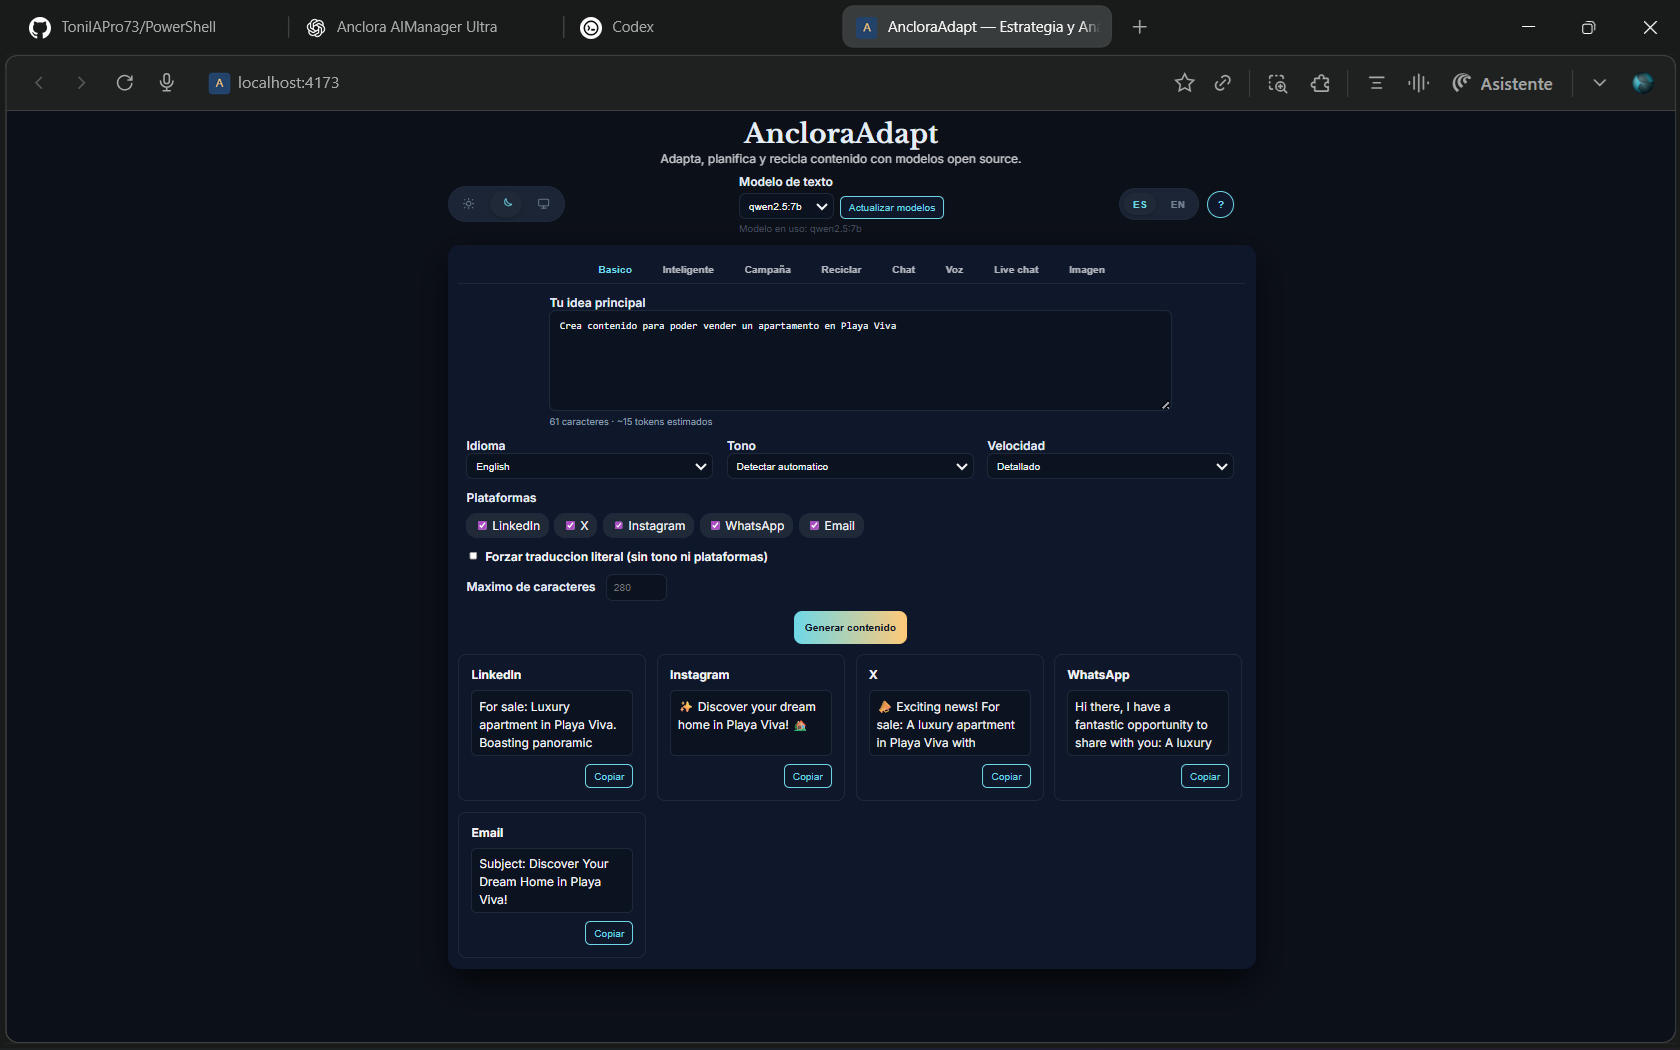
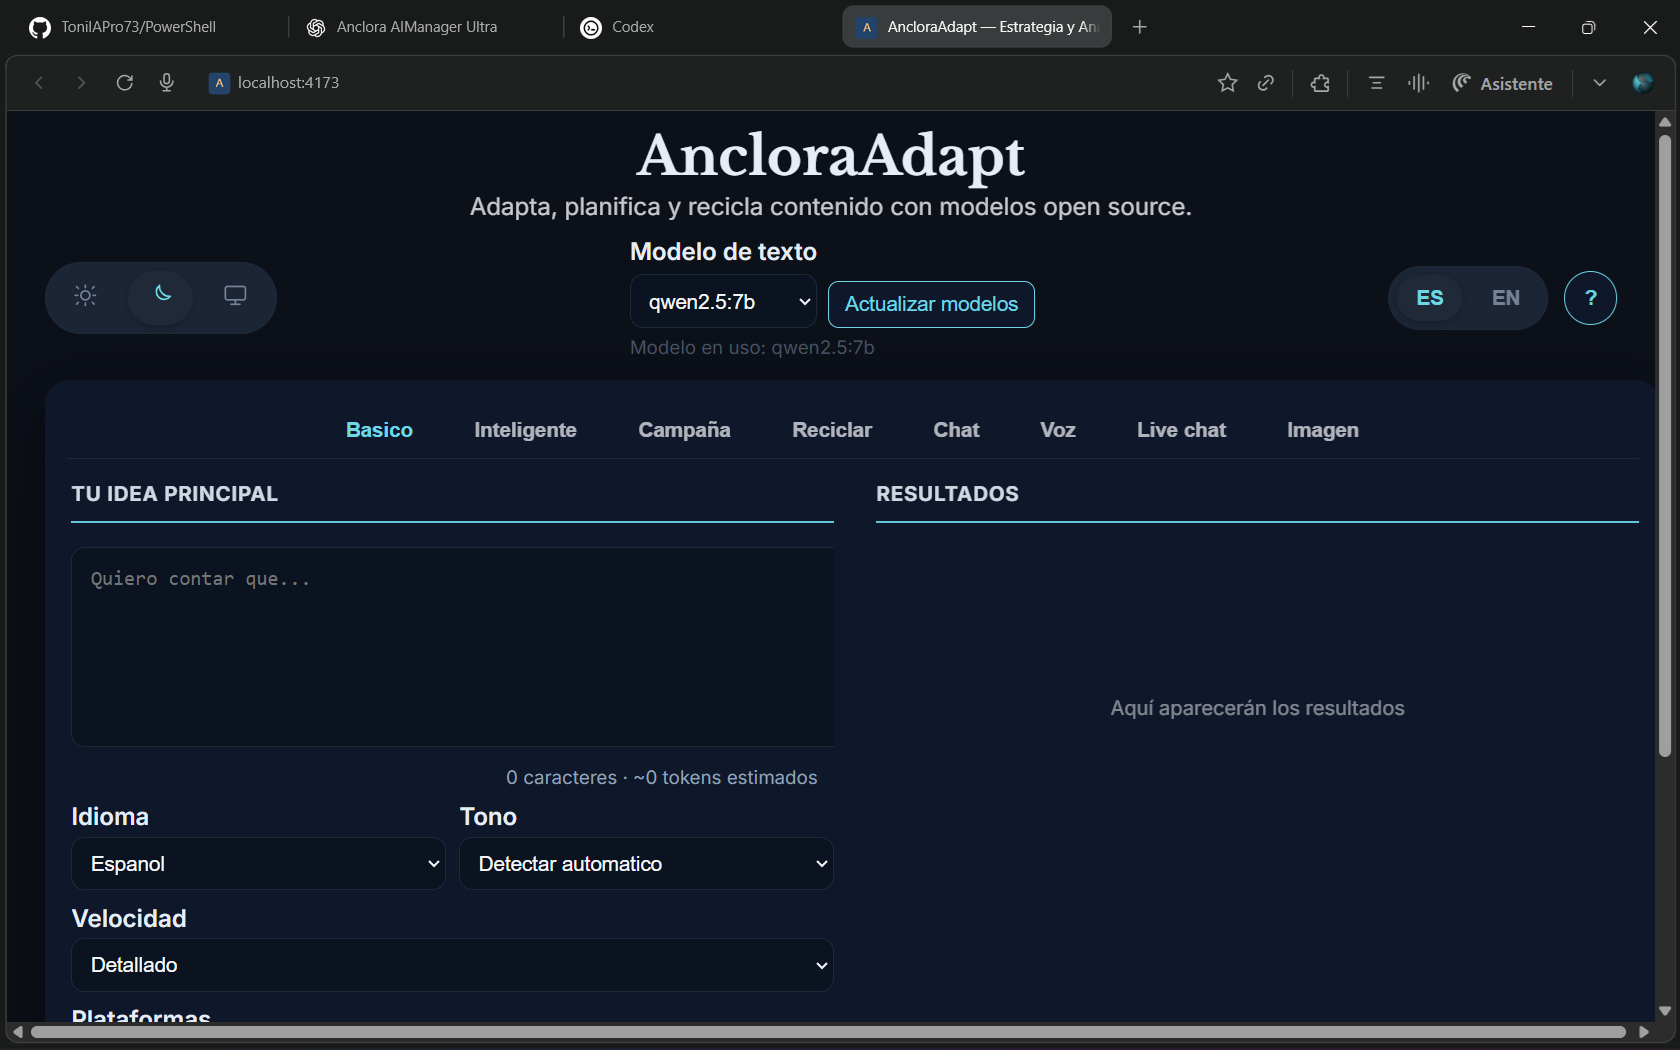
Cambios Realizados para Mejorar la Responsividad
1. Container Principal

  - Cambié maxWidth: 1200px → maxWidth: 100% para que use todo el ancho
  disponible
  - Reducí padding de 12px 12px → 12px uniforme

  2. Header Controls

  - Cambié justificación de space-between → center para centrar mejor los
  elementos
  - Agregué width: 100% y boxSizing: border-box
  - Reducí el minWidth del selector de modelos de 240px → 200px con
  maxWidth: 300px

  3. Panel Principal (modeScrollArea)

  - Eliminé el problemático paddingRight: 4px
  - Agregué width: 100%, boxSizing: border-box y overflowX: hidden para
  prevenir scroll horizontal

  4. Contenido Principal (mainContent)

  - Reducí padding de 16px → 12px
  - Reducí gap de 16px → 12px
  - Agregué boxSizing: border-box

  5. Secciones y Formularios

  - Eliminé todos los padding: "0 12px" problemáticos en section y
  configSection
  - Cambié el gap de configSection de 20px → 16px
  - Reducí configGroup de flex: "1 1 240px" → flex: "1 1 200px" con
  minWidth: 0

  6. Botones y Controles

  - generateButton: Agregué width: 100% y boxSizing: border-box, eliminé
  margin: "0 12px"
  - errorMessage: Eliminé margins problemáticos, agregué width: 100% y
  boxSizing: border-box

  7. Elementos de Chat

  - Eliminé paddingRight: 12px del chatInputWrapper y chatCounters
  - Aseguré que todos usen width: 100% y boxSizing: border-box

  8. Título Responsivo

  - Cambié a fontSize: "clamp(1.8em, 5vw, 2.2em)" para que se ajuste al
  ancho de la pantalla
  - Agregué wordBreak: break-word
[…]

diff --git a/src/App.tsx b/src/App.tsx
@@ -613,10 +613,10 @@ const commonStyles: Record<string, React.CSSProperties> = {
     display: "flex",
     flexDirection: "column",
     alignItems: "stretch",
-    maxWidth: "1200px",
+    maxWidth: "100%",
     width: "100%",
     margin: "0 auto",
-    padding: "12px 12px",
+    padding: "12px",
     boxSizing: "border-box",
     gap: "16px",
     minHeight: "100vh",
@@ -632,16 +632,19 @@ const commonStyles: Record<string, React.CSSProperties> = {
   },
   headerControls: {
     display: "flex",
-    justifyContent: "space-between",
+    justifyContent: "center",
     gap: "12px",
     alignItems: "center",
     flexWrap: "wrap",
+    width: "100%",
+    boxSizing: "border-box",
   },
   modelSelector: {
     display: "flex",
     flexDirection: "column",
     gap: "6px",
-    minWidth: "240px",
+    minWidth: "200px",
+    maxWidth: "300px",
   },
   modelSelectorRow: {
     display: "flex",
@@ -680,9 +683,10 @@ const commonStyles: Record<string, React.CSSProperties> = {
   },
   title: {
     fontFamily: "Libre Baskerville, serif",
-    fontSize: "2.2em",
+    fontSize: "clamp(1.8em, 5vw, 2.2em)",
     margin: 0,
     color: "var(--azul-profundo, #23436B)",
+    wordBreak: "break-word",
   },
   subtitle: {
     fontFamily: "Inter, sans-serif",
@@ -695,16 +699,19 @@ const commonStyles: Record<string, React.CSSProperties> = {
     width: "100%",
     backgroundColor: "var(--panel-bg, #FFFFFF)",
     borderRadius: "18px",
-    padding: "16px",
+    padding: "12px",
     boxShadow: "var(--panel-shadow, 0 10px 40px rgba(0,0,0,0.06))",
     display: "flex",
     flexDirection: "column",
-    gap: "16px",
+    gap: "12px",
+    boxSizing: "border-box",
   },
   modeScrollArea: {
     flex: 1,
     minHeight: 0,
-    paddingRight: "4px",
+    width: "100%",
+    boxSizing: "border-box",
+    overflowX: "hidden",
   },
   tabNavigation: {
     display: "flex",
@@ -735,8 +742,10 @@ const commonStyles: Record<string, React.CSSProperties> = {
     display: "flex",
     flexDirection: "column",
     gap: "12px",
-    paddingRight: "8px",
+    paddingRight: "0",
     minHeight: 0,
+    width: "100%",
+    boxSizing: "border-box",
   },
   modeOutputsColumn: {
     display: "flex",
@@ -748,7 +757,7 @@ const commonStyles: Record<string, React.CSSProperties> = {
     display: "flex",
     flexDirection: "column",
     gap: "12px",
-    padding: "0 12px 16px 12px",
+    padding: "0",
     width: "100%",
     boxSizing: "border-box",
   },
@@ -785,13 +794,14 @@ const commonStyles: Record<string, React.CSSProperties> = {
   configSection: {
     display: "flex",
     flexWrap: "wrap",
-    gap: "20px",
-    padding: "0 12px 16px 12px",
+    gap: "16px",
+    padding: "0",
     width: "100%",
     boxSizing: "border-box",
   },
   configGroup: {
-    flex: "1 1 240px",
+    flex: "1 1 200px",
+    minWidth: 0,
   },
   checkboxRow: {
     display: "flex",
@@ -807,7 +817,7 @@ const commonStyles: Record<string, React.CSSProperties> = {
     cursor: "pointer",
   },
   generateButton: {
-    padding: "16px",
+    padding: "14px 16px",
     borderRadius: "12px",
     border: "none",
     backgroundImage:
@@ -815,14 +825,18 @@ const commonStyles: Record<string, React.CSSProperties> = {
     fontWeight: 700,
     color: "var(--button-contrast, #162032)",
     cursor: "pointer",
-    margin: "0 12px",
+    margin: "0",
+    width: "100%",
+    boxSizing: "border-box",
   },
   errorMessage: {
     backgroundColor: "var(--danger-bg, #fdecea)",
     color: "var(--danger-text, #c0392b)",
     padding: "12px",
     borderRadius: "10px",
-    margin: "0 12px",
+    margin: "0",
+    width: "100%",
+    boxSizing: "border-box",
   },
   loadingMessage: {
     display: "flex",
@@ -906,7 +920,7 @@ const commonStyles: Record<string, React.CSSProperties> = {
   },
   chatInputWrapper: {
     width: "100%",
-    padding: "0 12px 12px 12px",
+    padding: "0",
     boxSizing: "border-box",
     display: "flex",
     flexDirection: "column",
@@ -936,7 +950,7 @@ const commonStyles: Record<string, React.CSSProperties> = {
     fontSize: "12px",
     color: "var(--texto, #162032)",
     opacity: 0.85,
-    paddingRight: "12px",
+    paddingRight: "0",
   },
   helpButton: {
     width: "40px",
@@ -997,16 +1011,17 @@ const commonStyles: Record<string, React.CSSProperties> = {
     fontSize: "12px",
     color: "var(--toggle-inactive-text, #667085)",
     marginTop: "4px",
-    paddingRight: "12px",
+    paddingRight: "0",
   },
   // === Two-Frame Layout Styles (BasicMode) ===
   twoFrameContainer: {
     display: "grid",
     gridTemplateColumns: "1fr 1fr",
-    gap: "24px",
+    gap: "16px",
     width: "100%",
     height: "100%",
     minHeight: 0,
+    boxSizing: "border-box",
     padding: "0 4px",
   },
   twoFrameContainerMobile: {
@@ -1070,6 +1085,8 @@ const commonStyles: Record<string, React.CSSProperties> = {
     backgroundColor: "var(--muted-surface, #f7f9fb)",
     flex: 1,
     overflowY: "auto",
+    width: "100%",
+    boxSizing: "border-box",
   },
   audioPlayer: {
     width: "100%",
